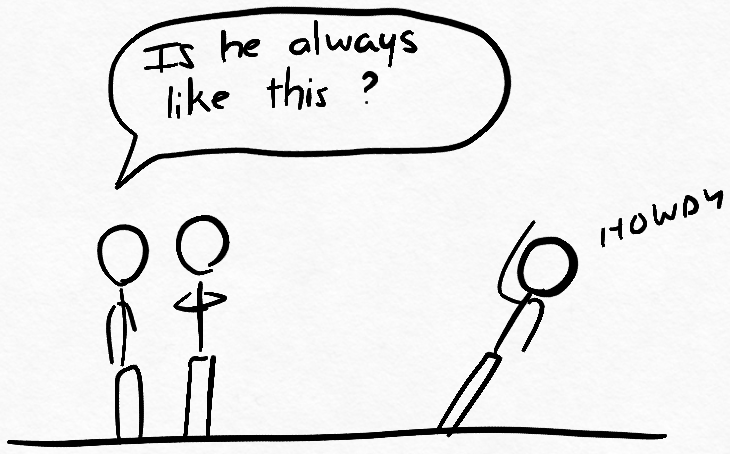
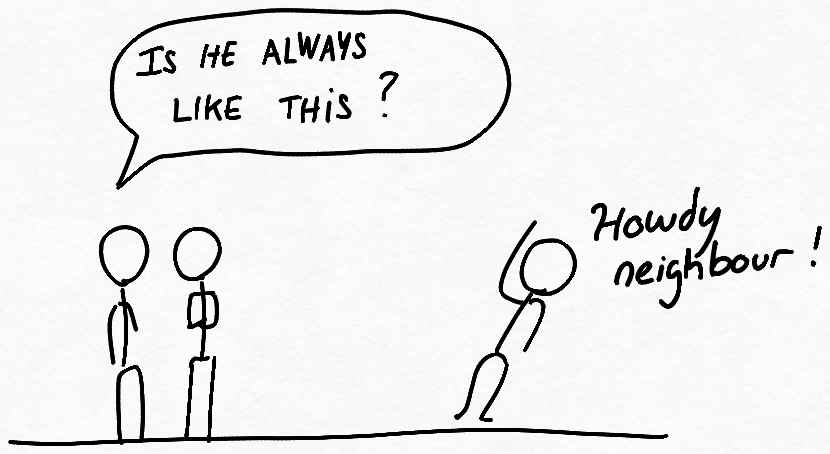
clean some illustrations

Changed region(s): [[0.0301, 0.4009, 0.9945, 0.9868], [0.1205, 0.0, 0.7233, 0.4317], [0.6027, 0.1233, 0.6329, 0.2467]]

diff --git a/funderstanding/if_the_earth_was_flat.html b/funderstanding/if_the_earth_was_flat.html
@@ -1,6 +1,6 @@
 <!DOCTYPE html>
 <html>
-<title>Dugas.ch</title>
+<title>Funderstanding</title>
 <meta charset="UTF-8">
 <meta name="viewport" content="width=device-width, initial-scale=1">
 <link rel="stylesheet" href="../styles.css">
@@ -73,14 +73,14 @@ h1 {letter-spacing: 6px}
   </p>
 <!--   TODO draw the experience of the traveller, where the ground is tilted as he moves. -->
 <!--   left: house, ground, tree, flat. Middle: house, ground, tree, tilted. Person is puzzled -->
-  <img src="./img/flat_earth/weirdoes.png" style="width:30%">
+  <img src="./img/flat_earth/weirdoes.png" style="width:40%">
   <p style="font-size:130%;">
     At this point, I realized that I had no clue how strong this effect would be for most of the disc inhabitants.
     Would this side-force be mere thousandth of a g, almost imperceptible to inhabitants almost all the way to the edge?
     Or would it be quite strong, relatively to the main <i>down</i> component of the <i>force de pesanteur</i> ?
     In other words, would the world feel flat pretty much everywhere, or would it feel like a steep slope?
   </p>
-  <img src="./img/flat_earth/weakorstrong.png" style="width:30%">
+  <img src="./img/flat_earth/weakorstrong.png" style="width:100%">
   <p style="font-size:130%;">
     To answer this question, we need to figure out the angle of the gravity field vector along the disc surface.
   </p>
